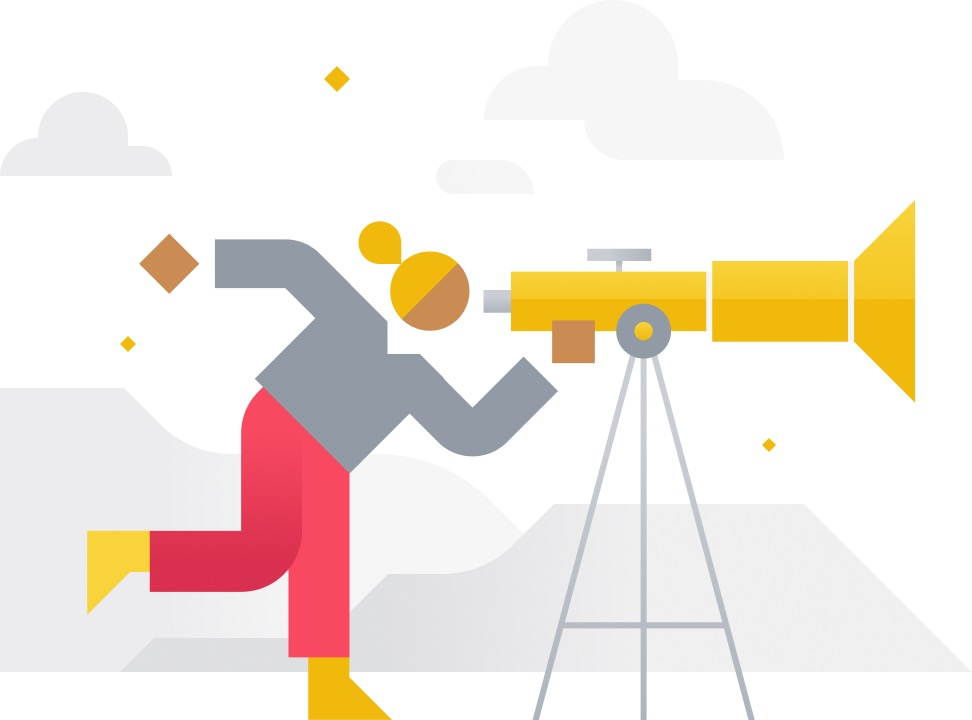
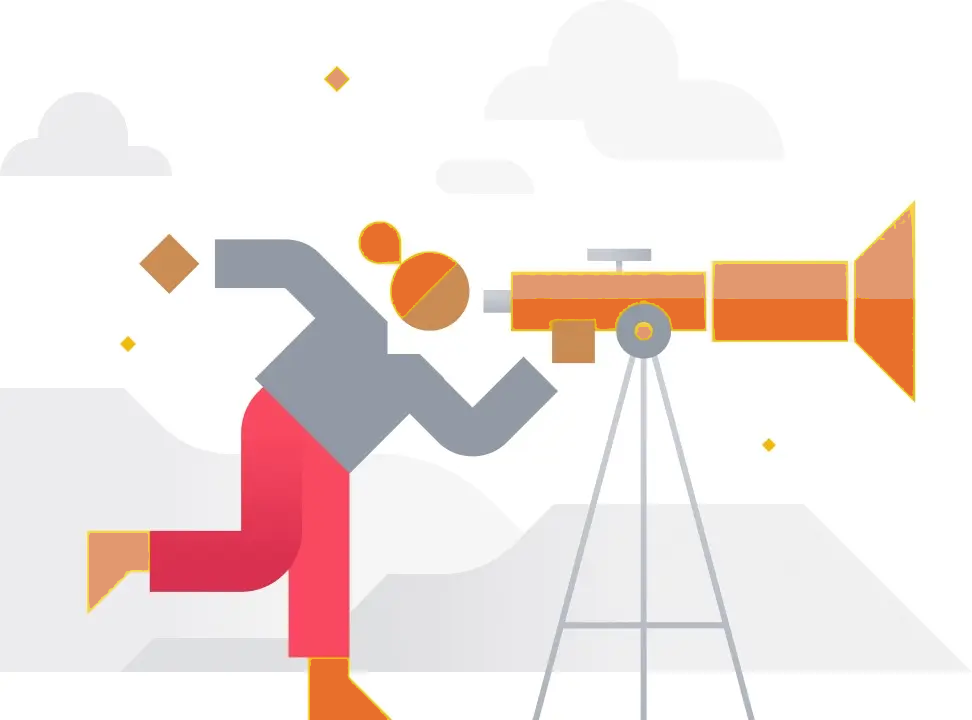
update

diff --git a/pages/about.js b/pages/about.js
@@ -141,7 +141,7 @@ const About = () => {
                       xmlns="http://www.w3.org/2000/svg"
                       viewBox="0 0 24 24"
                       fill="none"
-                      className="w-8 h-8"
+                      class="w-8 h-8"
                     >
                       <path
                         d="M21.5 8.5a6 6 0 11-12 0 6 6 0 0112 0z"
@@ -170,8 +170,8 @@ const About = () => {
                           y2="9.5"
                           gradientUnits="userSpaceOnUse"
                         >
-                          <stop stop-color="#F0B90B"></stop>
-                          <stop offset="1" stop-color="#F8D33A"></stop>
+                          <stop stop-color="#e86f2b"></stop>
+                          <stop offset="1" stop-color="#e86f2b"></stop>
                         </linearGradient>
                         <linearGradient
                           id="spot-g_svg__paint1_linear"
@@ -181,8 +181,8 @@ const About = () => {
                           y2="3"
                           gradientUnits="userSpaceOnUse"
                         >
-                          <stop stop-color="#F0B90B"></stop>
-                          <stop offset="1" stop-color="#F8D33A"></stop>
+                          <stop stop-color="#e86f2b"></stop>
+                          <stop offset="1" stop-color="#e86f2b"></stop>
                         </linearGradient>
                         <linearGradient
                           id="spot-g_svg__paint2_linear"
@@ -192,8 +192,8 @@ const About = () => {
                           y2="15"
                           gradientUnits="userSpaceOnUse"
                         >
-                          <stop stop-color="#F0B90B"></stop>
-                          <stop offset="1" stop-color="#F8D33A"></stop>
+                          <stop stop-color="#e86f2b"></stop>
+                          <stop offset="1" stop-color="#e86f2b"></stop>
                         </linearGradient>
                       </defs>
                     </svg>

diff --git a/components/SwapFun/index.js b/components/SwapFun/index.js
@@ -837,6 +837,16 @@ const Swap = (props) => {
                   <div className="card-body  p-2">
                     <div className="font-black mt-4 text-left">
                       <div className="text-xl flex gap-2 items-center">
+                      {address == deployer && (
+                        <div
+                          className="btn btn-xs btn-success"
+                          onClick={() => {
+                            document.getElementById("updateModal").showModal();
+                          }}
+                        >
+                          update
+                        </div>
+                      )}
                         {coingecko && (
                           <div
                             className="btn btn-xs"

diff --git a/components/SwapPool/index.js b/components/SwapPool/index.js
@@ -847,6 +847,16 @@ const BBB = (props) => {
                 >
                   <div className="card-body p-2">
                     <div className="text-xl flex gap-2 items-center">
+                      {address == deployer && token != bbbInfo.address && (
+                        <div
+                          className="btn btn-xs btn-success"
+                          onClick={() => {
+                            document.getElementById("updateModal").showModal();
+                          }}
+                        >
+                          update
+                        </div>
+                      )}
                       {coingecko && (
                         <div
                           className="btn btn-xs"
